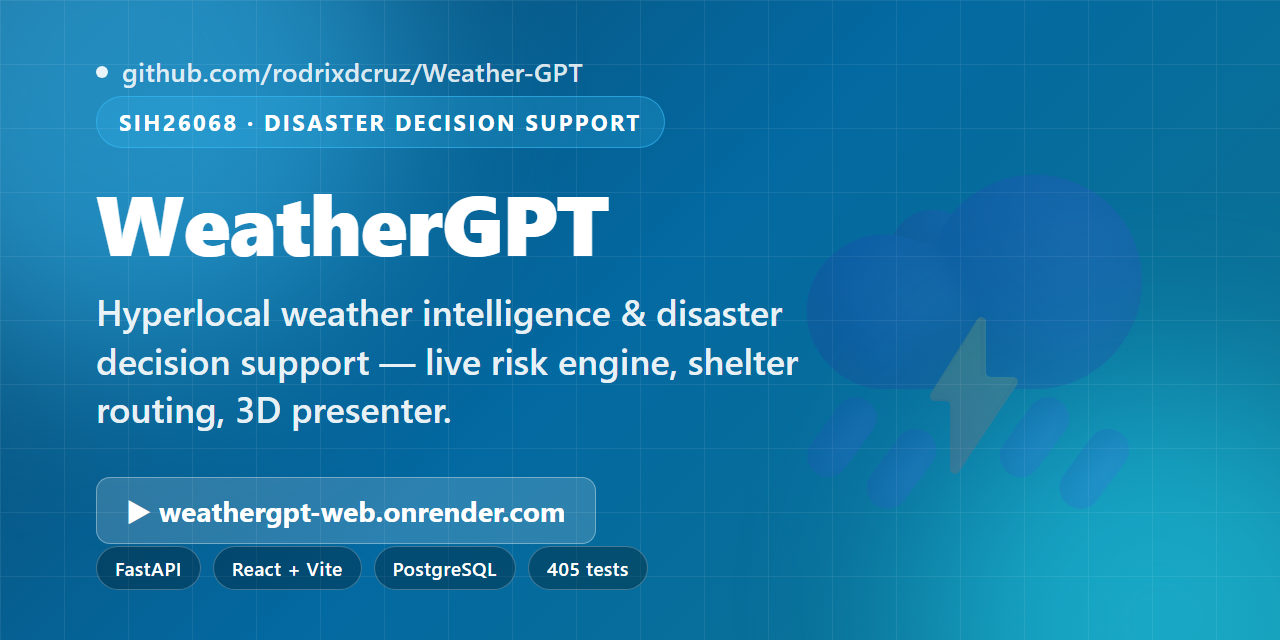
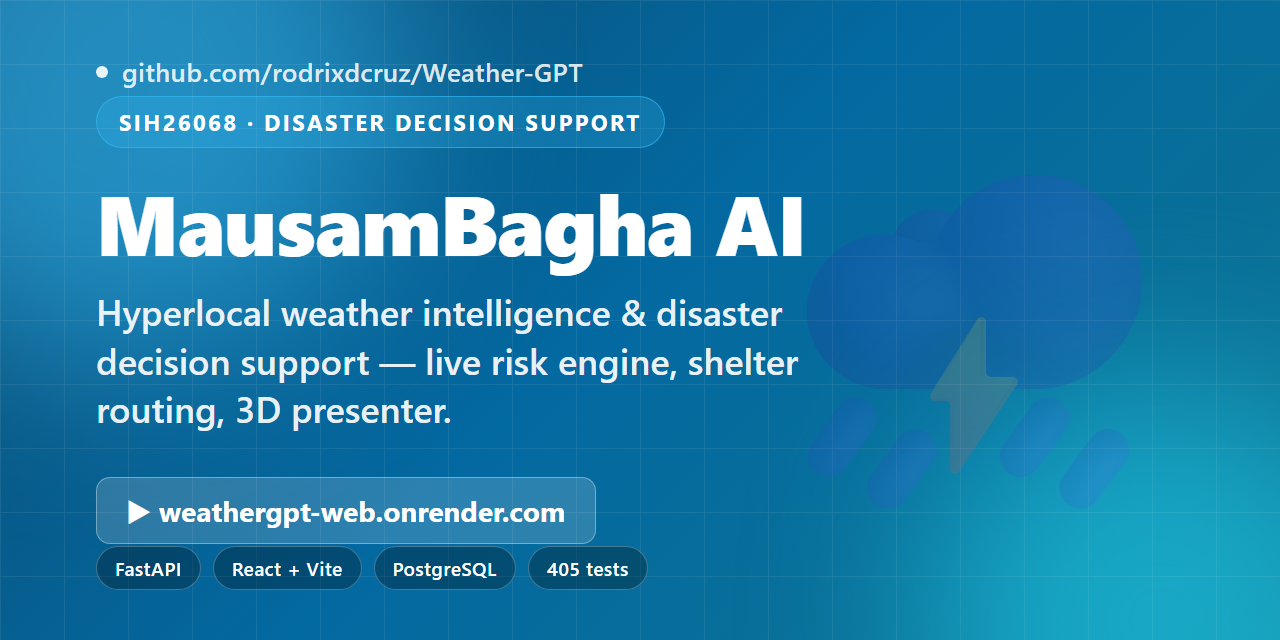
Rebrand WeatherGPT to MausamBagha AI (UI, prompts, disclaimers, docs, card)
User-facing brand name changes only: browser title, login/topbar headers,
map watermark, all four i18n languages, AI system prompts, safety-status
disclaimers, APP_NAME default, README/DEPLOYMENT, and the README hero card.
URLs, Render service names, DB users, storage keys, and the
weathergpt_risk_engine source ID are unchanged so deploys keep working.

Changed region(s): [[0.0625, 0.2812, 0.625, 0.4375]]

diff --git a/frontend/src/i18n/index.js b/frontend/src/i18n/index.js
@@ -5,7 +5,7 @@ export const I18N = {
   en: {
     name: 'English',
     speechCode: 'en-IN',
-    greet: "Hi, I'm WeatherGPT. Ask me about rainfall, heat, storms, or what to do to stay safe.",
+    greet: "Hi, I'm MausamBagha AI. Ask me about rainfall, heat, storms, or what to do to stay safe.",
     chips: ['Is it safe to go outside?', 'Will it rain today?', 'How hot will it get?'],
     suggestionsByRole: {
       customer: ['Is it safe to go outside?', 'Will it rain today?', 'How hot will it get?'],
@@ -17,7 +17,7 @@ export const I18N = {
     ui: {
       brandSub: 'Disaster Decision Support · SIH26068',
       demoBanner: 'DEMO MODE — data shown is simulated, not a live official forecast',
-      liveBanner: 'LIVE DATA — verified Open-Meteo readings. WeatherGPT safety status is not an official government warning.',
+      liveBanner: 'LIVE DATA — verified Open-Meteo readings. MausamBagha AI safety status is not an official government warning.',
       sos: 'SOS',
       currentWeather: 'Current Weather',
       verified: 'VERIFIED',
@@ -57,9 +57,9 @@ export const I18N = {
       driveTime: '🚗',
       timesLoading: 'Estimating…',
       timesUnavailable: '—',
-      assistantTitle: 'WeatherGPT Assistant',
+      assistantTitle: 'MausamBagha AI Assistant',
       assistantSub: 'Grounded in live weather data only',
-      typing: 'WeatherGPT is typing…',
+      typing: 'MausamBagha AI is typing…',
       send: 'Send',
       listening: 'Listening…',
       dragToRotate: '↔ drag to rotate me',
@@ -134,8 +134,8 @@ export const I18N = {
       aqi: 'AQI',
       aqiMockNote: 'AQI shown is a demo fixture, not live air-quality data.',
       loadingSafety: 'Checking safety status…',
-      safetyStatus: 'WeatherGPT Safety Status',
-      safetyStatusLabel: 'WeatherGPT Safety Status — not an official alert',
+      safetyStatus: 'MausamBagha AI Safety Status',
+      safetyStatusLabel: 'MausamBagha AI Safety Status — not an official alert',
       safety_normal: 'NORMAL',
       safety_watch: 'WATCH',
       safety_warning: 'WARNING',
@@ -143,11 +143,11 @@ export const I18N = {
       activeAlerts: 'Active Safety Alerts',
       noActiveAlerts: 'No active safety alerts for this location right now.',
       alertSource: 'Source',
-      weathergptGenerated: 'WeatherGPT-generated',
+      weathergptGenerated: 'MausamBagha AI-generated',
       officialAlerts: 'Official alerts',
       safetyChecklist: 'Safety Checklist',
       emergencyInfo: 'Emergency Information',
-      emergencyNote: 'WeatherGPT complements but does not replace official emergency services. In a life-threatening situation, contact local emergency services directly.',
+      emergencyNote: 'MausamBagha AI complements but does not replace official emergency services. In a life-threatening situation, contact local emergency services directly.',
       lastUpdated: 'Updated',
       navSafety: 'Safety',
 
@@ -293,7 +293,7 @@ export const I18N = {
   hi: {
     name: 'हिन्दी (Hindi)',
     speechCode: 'hi-IN',
-    greet: 'नमस्ते, मैं WeatherGPT हूँ। बारिश, गर्मी, तूफान या सुरक्षा के बारे में पूछें।',
+    greet: 'नमस्ते, मैं MausamBagha AI हूँ। बारिश, गर्मी, तूफान या सुरक्षा के बारे में पूछें।',
     chips: ['क्या बाहर जाना सुरक्षित है?', 'क्या आज बारिश होगी?', 'कितनी गर्मी होगी?'],
     suggestionsByRole: {
       customer: ['क्या बाहर जाना सुरक्षित है?', 'क्या आज बारिश होगी?', 'कितनी गर्मी होगी?'],
@@ -344,9 +344,9 @@ export const I18N = {
       driveTime: '🚗',
       timesLoading: 'अनुमान लगा रहे हैं…',
       timesUnavailable: '—',
-      assistantTitle: 'WeatherGPT सहायक',
+      assistantTitle: 'MausamBagha AI सहायक',
       assistantSub: 'केवल लाइव मौसम डेटा पर आधारित',
-      typing: 'WeatherGPT लिख रहा है…',
+      typing: 'MausamBagha AI लिख रहा है…',
       send: 'भेजें',
       listening: 'सुन रहा हूँ…',
       dragToRotate: '↔ मुझे घुमाने के लिए खींचें',
@@ -414,8 +414,8 @@ export const I18N = {
       geoUnsupported: 'इस ब्राउज़र में जियोलोकेशन उपलब्ध नहीं है — कृपया निर्देशांक टाइप करें।',
       geoLocating: 'आपका स्थान लिया जा रहा है…',
       loadingSafety: 'सुरक्षा स्थिति जांची जा रही है…',
-      safetyStatus: 'WeatherGPT सुरक्षा स्थिति',
-      safetyStatusLabel: 'WeatherGPT सुरक्षा स्थिति — आधिकारिक अलर्ट नहीं',
+      safetyStatus: 'MausamBagha AI सुरक्षा स्थिति',
+      safetyStatusLabel: 'MausamBagha AI सुरक्षा स्थिति — आधिकारिक अलर्ट नहीं',
       safety_normal: 'सामान्य',
       safety_watch: 'सतर्क',
       safety_warning: 'चेतावनी',
@@ -423,11 +423,11 @@ export const I18N = {
       activeAlerts: 'सक्रिय सुरक्षा अलर्ट',
       noActiveAlerts: 'इस स्थान के लिए अभी कोई सक्रिय सुरक्षा अलर्ट नहीं है।',
       alertSource: 'स्रोत',
-      weathergptGenerated: 'WeatherGPT-जनित',
+      weathergptGenerated: 'MausamBagha AI-जनित',
       officialAlerts: 'आधिकारिक अलर्ट',
       safetyChecklist: 'सुरक्षा चेकलिस्ट',
       emergencyInfo: 'आपातकालीन जानकारी',
-      emergencyNote: 'WeatherGPT आधिकारिक आपातकालीन सेवाओं का विकल्प नहीं है। जीवन के खतरे की स्थिति में सीधे स्थानीय आपातकालीन सेवाओं से संपर्क करें।',
+      emergencyNote: 'MausamBagha AI आधिकारिक आपातकालीन सेवाओं का विकल्प नहीं है। जीवन के खतरे की स्थिति में सीधे स्थानीय आपातकालीन सेवाओं से संपर्क करें।',
       lastUpdated: 'अद्यतन',
       navSafety: 'सुरक्षा',
 
@@ -573,7 +573,7 @@ export const I18N = {
   mr: {
     name: 'मराठी (Marathi)',
     speechCode: 'mr-IN',
-    greet: 'नमस्कार, मी WeatherGPT आहे. पाऊस, उष्णता, वादळ किंवा सुरक्षिततेबद्दल विचारा.',
+    greet: 'नमस्कार, मी MausamBagha AI आहे. पाऊस, उष्णता, वादळ किंवा सुरक्षिततेबद्दल विचारा.',
     chips: ['बाहेर जाणे सुरक्षित आहे का?', 'आज पाऊस पडेल का?', 'किती उष्णता असेल?'],
     suggestionsByRole: {
       customer: ['बाहेर जाणे सुरक्षित आहे का?', 'आज पाऊस पडेल का?', 'किती उष्णता असेल?'],
@@ -624,9 +624,9 @@ export const I18N = {
       driveTime: '🚗',
       timesLoading: 'अंदाज घेत आहोत…',
       timesUnavailable: '—',
-      assistantTitle: 'WeatherGPT सहाय्यक',
+      assistantTitle: 'MausamBagha AI सहाय्यक',
       assistantSub: 'फक्त थेट हवामान डेटावर आधारित',
-      typing: 'WeatherGPT टाइप करत आहे…',
+      typing: 'MausamBagha AI टाइप करत आहे…',
       send: 'पाठवा',
       listening: 'ऐकत आहे…',
       dragToRotate: '↔ मला फिरवण्यासाठी ओढा',
@@ -694,8 +694,8 @@ export const I18N = {
       geoUnsupported: 'या ब्राउझरमध्ये जिओलोकेशन उपलब्ध नाही — कृपया निर्देशांक टाइप करा.',
       geoLocating: 'तुमचे स्थान घेतले जात आहे…',
       loadingSafety: 'सुरक्षा स्थिती तपासली जात आहे…',
-      safetyStatus: 'WeatherGPT सुरक्षा स्थिती',
-      safetyStatusLabel: 'WeatherGPT सुरक्षा स्थिती — अधिकृत सूचना नाही',
+      safetyStatus: 'MausamBagha AI सुरक्षा स्थिती',
+      safetyStatusLabel: 'MausamBagha AI सुरक्षा स्थिती — अधिकृत सूचना नाही',
       safety_normal: 'सामान्य',
       safety_watch: 'सतर्क',
       safety_warning: 'चेतावणी',
@@ -703,11 +703,11 @@ export const I18N = {
       activeAlerts: 'सक्रिय सुरक्षा सूचना',
       noActiveAlerts: 'या ठिकाणी सध्या कोणतीही सक्रिय सुरक्षा सूचना नाही.',
       alertSource: 'स्रोत',
-      weathergptGenerated: 'WeatherGPT-जनित',
+      weathergptGenerated: 'MausamBagha AI-जनित',
       officialAlerts: 'अधिकृत सूचना',
       safetyChecklist: 'सुरक्षा यादी',
       emergencyInfo: 'आणीबाणीची माहिती',
-      emergencyNote: 'WeatherGPT अधिकृत आणीबाणी सेवांची जागा घेत नाही. जीवघेण्या परिस्थितीत थेट स्थानिक आणीबाणी सेवांशी संपर्क साधा.',
+      emergencyNote: 'MausamBagha AI अधिकृत आणीबाणी सेवांची जागा घेत नाही. जीवघेण्या परिस्थितीत थेट स्थानिक आणीबाणी सेवांशी संपर्क साधा.',
       lastUpdated: 'अद्ययावत',
       navSafety: 'सुरक्षा',
 

diff --git a/frontend/src/weather/map/MapCanvas.jsx b/frontend/src/weather/map/MapCanvas.jsx
@@ -77,7 +77,7 @@ export default function MapCanvas({ location }) {
             <text x="760" y="540">{fmtLon(cLon + 3)}</text>
           </g>
         ) : null}
-        <text x="500" y="980" textAnchor="middle" fontSize="24" fill="rgba(20,32,60,.45)" fontFamily="system-ui">WeatherGPT · LIVE MAP</text>
+        <text x="500" y="980" textAnchor="middle" fontSize="24" fill="rgba(20,32,60,.45)" fontFamily="system-ui">MausamBagha AI · LIVE MAP</text>
       </svg>
       {label ? <span className="map-canvas-locale">{label}</span> : null}
     </div>

diff --git a/frontend/index.html b/frontend/index.html
@@ -3,7 +3,7 @@
   <head>
     <meta charset="UTF-8" />
     <meta name="viewport" content="width=device-width, initial-scale=1.0" />
-    <title>WeatherGPT — Disaster Decision Support</title>
+    <title>MausamBagha AI — Disaster Decision Support</title>
     <link rel="stylesheet" href="https://cdnjs.cloudflare.com/ajax/libs/leaflet/1.9.4/leaflet.min.css" />
     <link
       href="https://fonts.googleapis.com/css2?family=Space+Grotesk:wght@500;600;700&family=Inter:wght@400;500;600;700&family=IBM+Plex+Mono:wght@400;500&display=swap"

diff --git a/frontend/src/components/LoginPage.jsx b/frontend/src/components/LoginPage.jsx
@@ -40,7 +40,7 @@ export default function LoginPage({ language, onLanguageChange, onSignIn }) {
             WG
           </div>
           <div className="text-left">
-            <h1 className="font-display font-bold text-[19px] m-0">WeatherGPT</h1>
+            <h1 className="font-display font-bold text-[19px] m-0">MausamBagha AI</h1>
             <small className="block text-slate-300 text-[10.5px] uppercase tracking-wide">
               {t(language, 'brandSub')}
             </small>

diff --git a/frontend/src/components/SafetyDashboard.jsx b/frontend/src/components/SafetyDashboard.jsx
@@ -4,7 +4,7 @@ import { t } from '../i18n'
 import { ErrorState, LoadingState } from './StateViews'
 import { SeverityBadge } from './RiskPanel'
 
-// WeatherGPT's own escalation ladder. NOT official government warning
+// MausamBagha AI's own escalation ladder. NOT official government warning
 // levels — the disclaimer below says so explicitly.
 const STATUS_STYLE = {
   normal: { border: 'border-emerald-500/40', bg: 'bg-emerald-500/5', text: 'text-emerald-400', icon: '✅' },

diff --git a/frontend/src/components/AdminPanel.jsx b/frontend/src/components/AdminPanel.jsx
@@ -1,6 +1,6 @@
 // Admin panel (admin accounts only).
 //
-// WeatherGPT's intelligence is a MODEL STACK, so this panel is built around
+// MausamBagha AI's intelligence is a MODEL STACK, so this panel is built around
 // model observability rather than generic server stats: which tiers exist and
 // are actually reachable, what the model has been doing since the backend
 // started (requests, which tier served them, fallback rate, latency), what

diff --git a/frontend/src/weather/ui-state.js b/frontend/src/weather/ui-state.js
@@ -1,6 +1,6 @@
 /**
  * ============================================================================
- * WeatherGPT · Centralized weather UI state system
+ * MausamBagha AI · Centralized weather UI state system
  * ----------------------------------------------------------------------------
  * Converts backend weather + role-aware risk-assessment payloads and local
  * time into one predictable UI state. The backend remains the single source

diff --git a/frontend/src/components/TopBar.jsx b/frontend/src/components/TopBar.jsx
@@ -29,7 +29,7 @@ export default function TopBar({
             WG
           </div>
           <div>
-            <h1 className="font-display font-bold text-[17px] m-0">WeatherGPT</h1>
+            <h1 className="font-display font-bold text-[17px] m-0">MausamBagha AI</h1>
             <small className="block text-slate-300 text-[10.5px] uppercase tracking-wide">
               {t(language, 'brandSub')}
             </small>

diff --git a/frontend/src/weather/map/WeatherInfoPanel.jsx b/frontend/src/weather/map/WeatherInfoPanel.jsx
@@ -31,7 +31,7 @@ export default function WeatherInfoPanel({ location, weather, risk, conditionLab
       </div>
       <p className="map-info-panel__action">{risk.action}</p>
 
-      <footer className="map-info-panel__foot">Source: {weather.source || 'WeatherGPT API'}</footer>
+      <footer className="map-info-panel__foot">Source: {weather.source || 'MausamBagha AI API'}</footer>
     </aside>
   )
 }

diff --git a/frontend/src/weather/weather-scape.css b/frontend/src/weather/weather-scape.css
@@ -1,5 +1,5 @@
 /* ==========================================================================
-   WeatherGPT · dynamic weather skin (page atmosphere, themes, risk UI)
+   MausamBagha AI · dynamic weather skin (page atmosphere, themes, risk UI)
    Imported once by WeatherAtmosphere.jsx.
 ========================================================================== */
 

diff --git a/frontend/src/components/FeatureTour.jsx b/frontend/src/components/FeatureTour.jsx
@@ -1,4 +1,4 @@
-// Guided feature tour — a spotlight walkthrough of everything WeatherGPT does,
+// Guided feature tour — a spotlight walkthrough of everything MausamBagha AI does,
 // built for hackathon judges and first-time visitors.
 //
 // Zero dependencies: one full-screen overlay renders a transparent "window"

diff --git a/backend/app/services/safety/models.py b/backend/app/services/safety/models.py
@@ -1,7 +1,7 @@
 """
 Safety-layer models.
 
-Key contract: everything here is WeatherGPT-generated interpretation of
+Key contract: everything here is MausamBagha AI-generated interpretation of
 weather data, explicitly NOT an official government alert. Models carry
 `source` fields so the UI can always distinguish the two. Official alerts
 can only enter the system through a SafetyAlertProvider (see providers.py)
@@ -10,8 +10,8 @@ can only enter the system through a SafetyAlertProvider (see providers.py)
 from dataclasses import dataclass, field
 from enum import Enum
 
-# WeatherGPT's own escalation ladder, derived deterministically from risk
-# severity. Deliberately labeled "WeatherGPT Safety Status" in the UI —
+# MausamBagha AI's own escalation ladder, derived deterministically from risk
+# severity. Deliberately labeled "MausamBagha AI Safety Status" in the UI —
 # these are NOT official government warning levels.
 ESCALATION_ORDER = ("normal", "watch", "warning", "critical")
 
@@ -78,7 +78,7 @@ class SafetyAssessment:
     checklist: list[ChecklistItem] = field(default_factory=list)
     official_alerts: list[SafetyAlert] = field(default_factory=list)
     disclaimer: str = (
-        "WeatherGPT Safety Status is an automated interpretation of weather data. "
+        "MausamBagha AI Safety Status is an automated interpretation of weather data. "
         "It is NOT an official government warning. For authoritative forecasts and "
         "alerts follow your national meteorological service and local authorities."
     )
